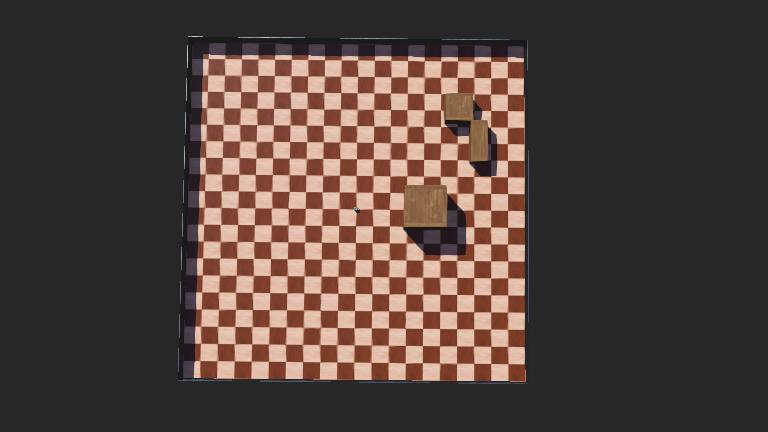
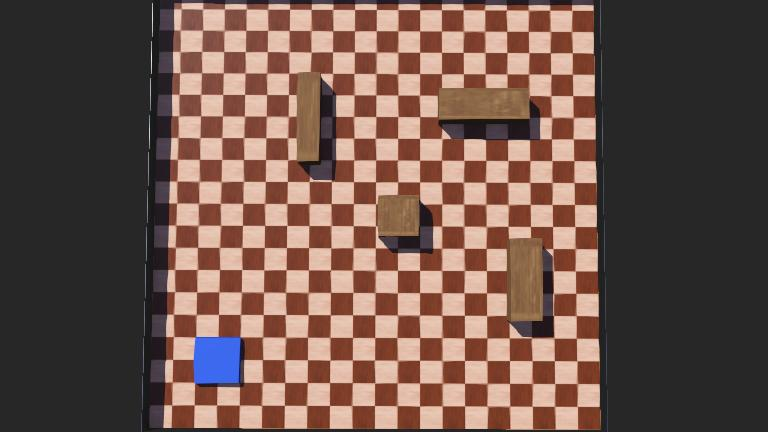
Improve Webots world presentation

diff --git a/controllers/rover_controller/fsm.py b/controllers/rover_controller/fsm.py
@@ -29,9 +29,9 @@ BACK_SENSORS = [3, 4]
 # Tunable parameters
 OBSTACLE_THRESHOLD = 80.0
 CORNER_THRESHOLD = 250.0
-CRUISE_SPEED = 3.0
-TURN_SPEED = 1.8
-BACKUP_SPEED = -2.0
+CRUISE_SPEED = 4.0
+TURN_SPEED = 2.2
+BACKUP_SPEED = -2.4
 AVOIDANCE_MIN_STEPS = 15
 AVOIDANCE_MAX_STEPS = 40
 RECOVERY_STEPS = 70